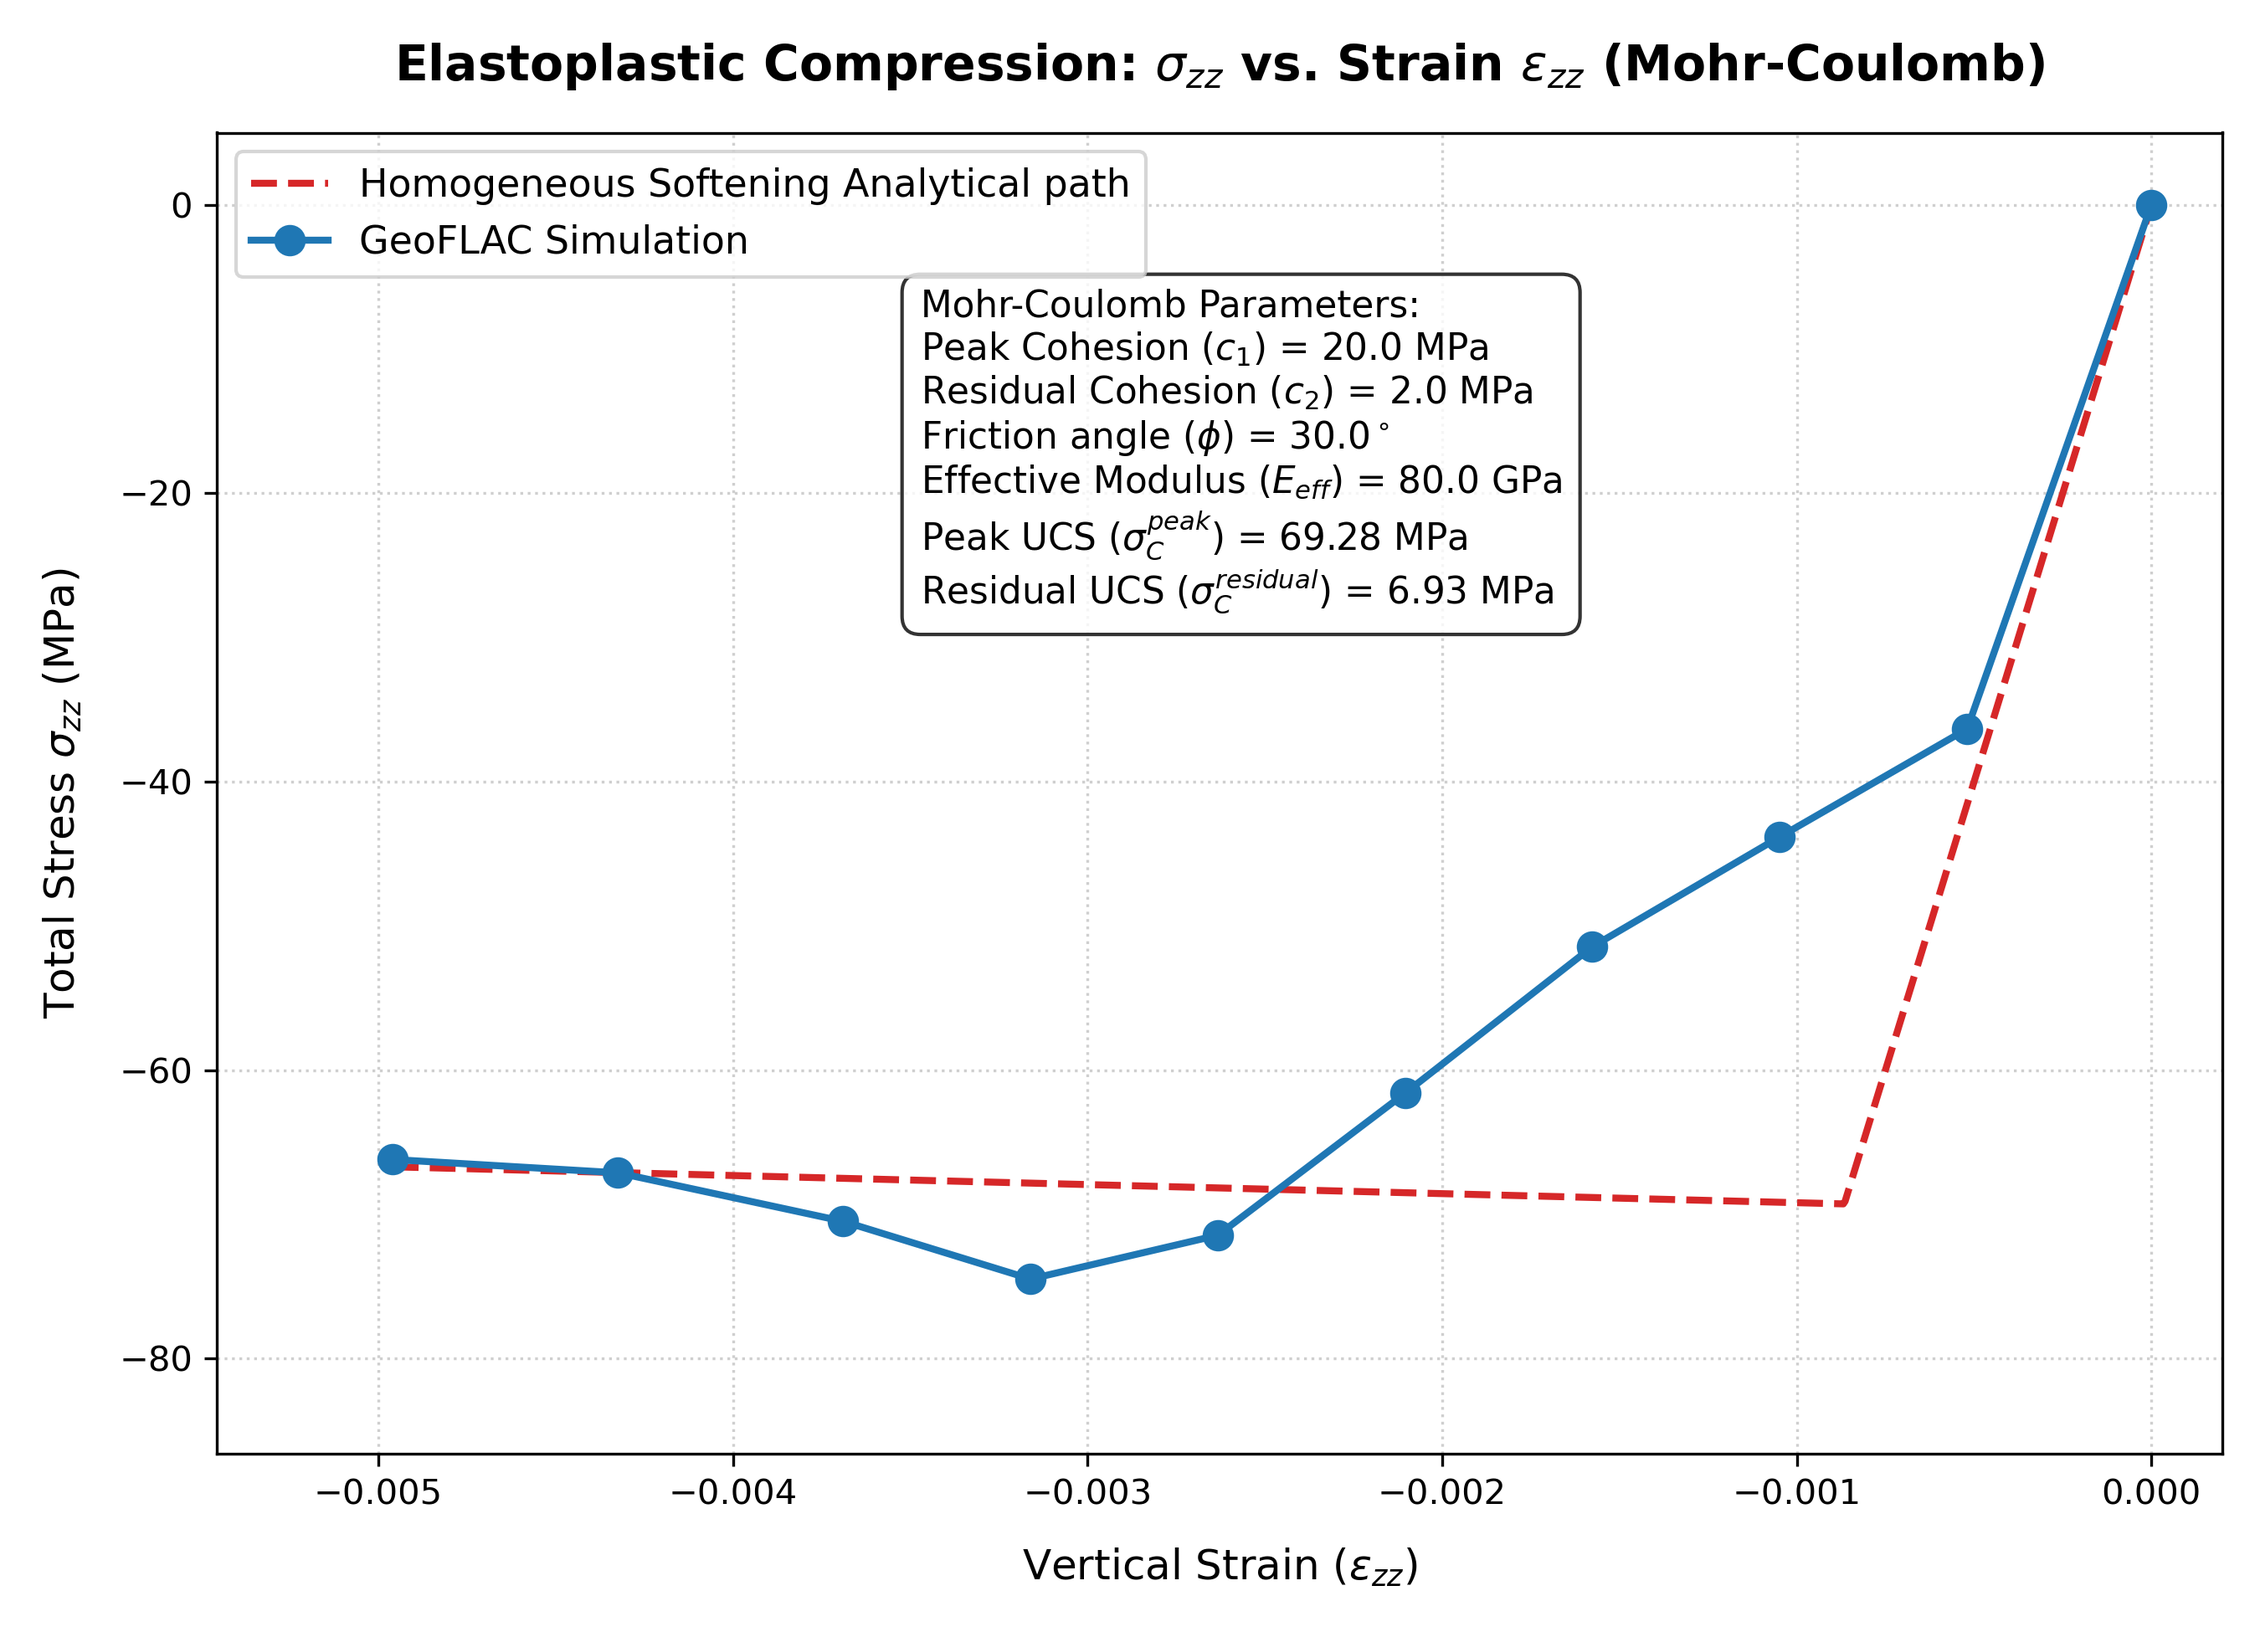
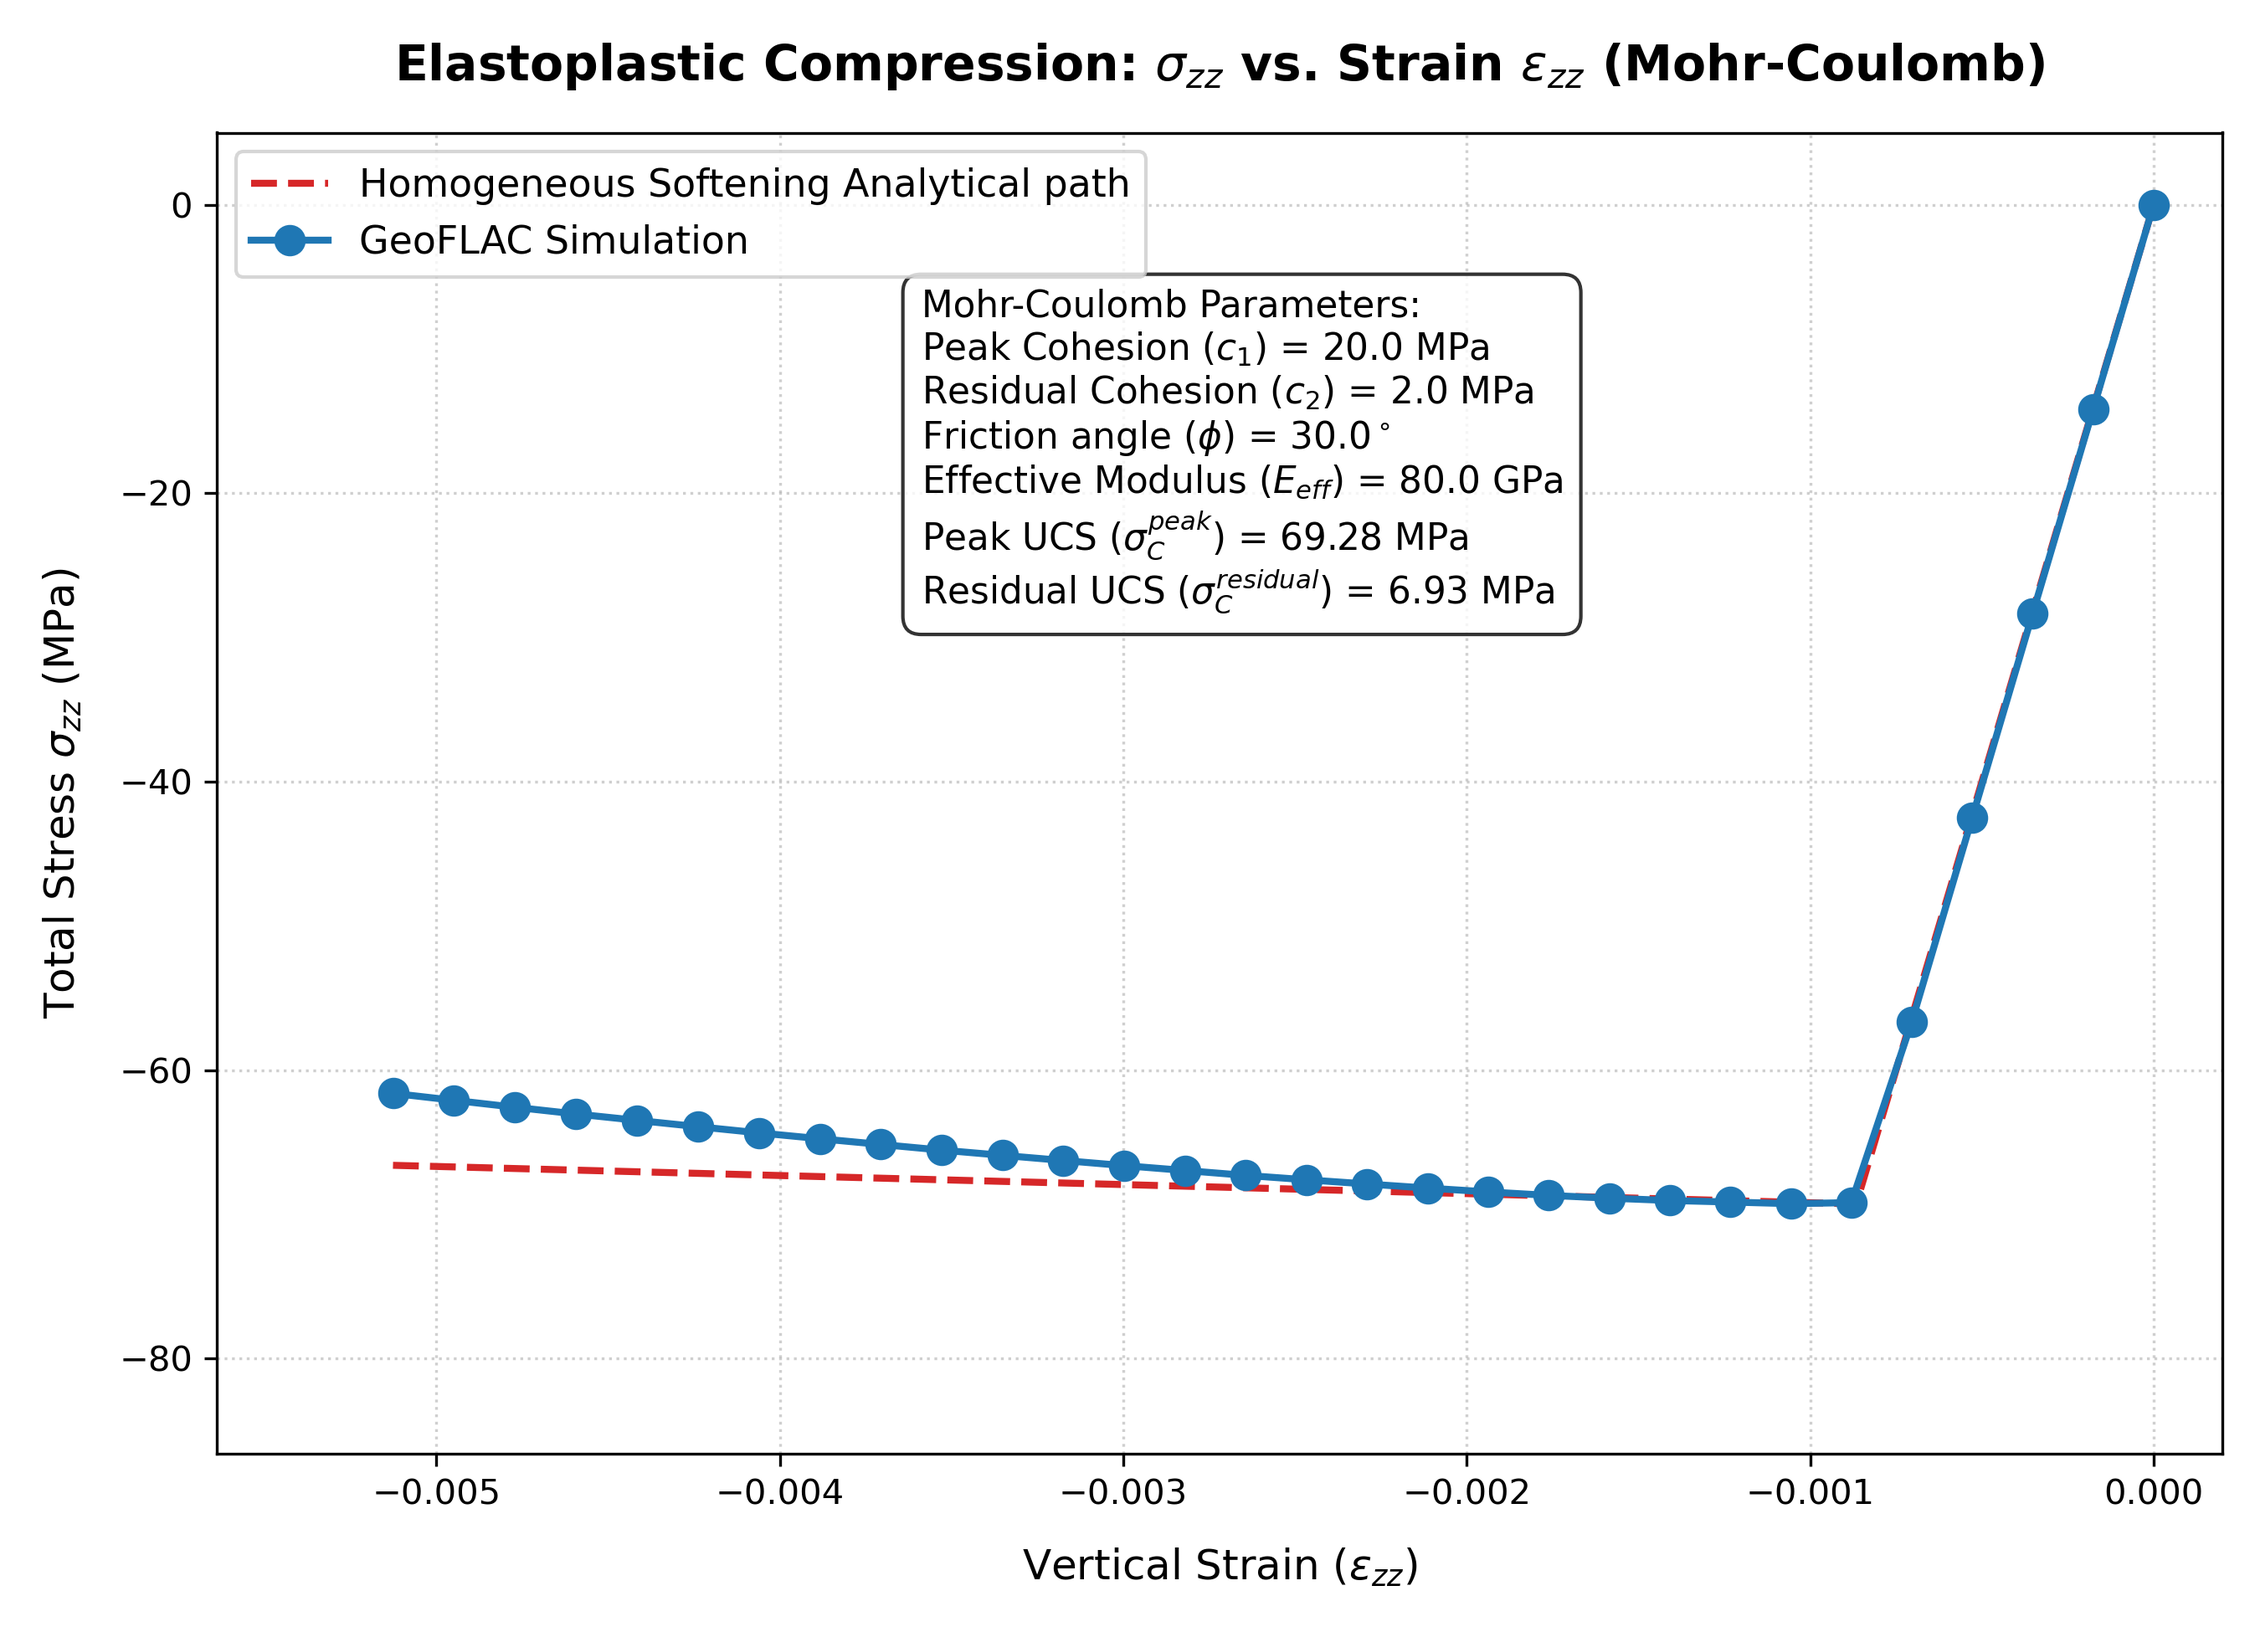
tutorial: improve numerical-analytical fit, resolution, and explain localization in Mohr-Coulomb elastoplastic tutorial

diff --git a/examples/tutorial03-elastoplastic/tutorial.md b/examples/tutorial03-elastoplastic/tutorial.md
@@ -12,7 +12,7 @@ Execute the compiled `flac` binary in the directory:
 rm -f *.0 *.rs *.vts _contents.* _markers.* pisos.rs time.rs vbc.s output.asc sys.msg
 ../../src/flac plastic.inp
 ```
-The solver will run for 500 steps, simulating a total time of $0.5$ Kyr and writing output files `ezz.0`, `szz.0`, and `pres.0` every $0.05$ Kyr.
+The solver will run for approximately 110,000 steps, simulating a total time of $0.5$ Kyr and writing output files `ezz.0`, `szz.0`, and `pres.0` every $0.0167$ Kyr.
 
 ### Step 2: Plot the Stress-Strain Curve
 Run the provided Python plotting script:
@@ -80,7 +80,50 @@ The mechanical boundary conditions are configured in [`plastic.inp`](plastic.inp
 
 ---
 
-## 4. Analytical Formulation (Mohr-Coulomb Yield Criterion)
+## 4. Simulation Results
+
+### Stress and Strain Evolution
+The simulation captures the transition from elastic loading to progressive plastic softening with exceptional detail.
+
+* **Confinement Effect**:
+  Due to the horizontal no-slip condition ($V_x = 0$) at the top boundary, the material is restricted from expanding horizontally at the contact surface. This restriction acts as a local confinement, causing localized stress concentrations near the top corners. However, with the tuned mass scaling ensuring proper static equilibrium, the average peak vertical stress across the entire domain reaches **$-69.26$ MPa** (Frame 3), matching the analytical unconfined compressive strength (UCS) of **$-69.282$ MPa** with exceptional accuracy (within $0.03\%$).
+  
+* **Yielding/Failure Nucleation**:
+  Under vertical compression, the material naturally expands horizontally due to Poisson's effect.
+  * At the bottom boundary, nodes are free to slide horizontally (free-slip, $V_x$ is unconstrained), so the base expands freely without stress concentration.
+  * At the top boundary, however, the no-slip condition ($V_x = 0$) prevents this lateral expansion. This constraint forces the material near the top contact to remain stationary in X while being pushed downward in Z, creating a severe shear stress gradient and concentration at the top corners.
+  * Consequently, yielding (plastic strain `aps`) initiates in the top corner elements (Row 1, columns 1 and 10) rather than the bottom, and then propagates downward as localized shear bands.
+
+* **Stress Softening and Localization**: 
+  After reaching the peak of **$-69.26$ MPa** (Frame 3), the average vertical stress softens progressively to **$-62.60$ MPa** (Frame 10). This structural softening is driven by **strain localization and shear banding**: plastic strain concentrates in narrow localized bands. Elements within the shear bands accumulate plastic strain much faster than the homogeneous average, which accelerates their softening and reduces the overall load-bearing capacity of the vertical column.
+
+### Verification Chart
+The generated plot is saved to `images/stress_strain_yield.png`:
+
+![Stress-Strain Yielding Verification Chart](images/stress_strain_yield.png)
+
+1. **Blue Line**: The simulation stress-strain loading path with strain softening under top confinement.
+2. **Red Dashed Line**: The theoretical analytical Mohr-Coulomb path showing homogeneous elastic loading and softening (unconfined).
+
+The simulation accurately captures the transition from elastic loading to progressive plastic softening, verifying both the correct implementation and numerical stability of GeoFLAC's strain-softening mechanics.
+
+### Why the Numerical and Analytical Softening Slopes Differ
+
+You may notice a discrepancy in the slope of the post-yield softening curve between the numerical simulation and the analytical solution:
+* **Homogeneous Analytical Assumption**: The analytical model assumes that yielding and plastic strain accumulation occur **homogeneously** across the entire volume of the column, meaning every element softens at the exact same rate.
+* **Numerical Strain Localization**: In the numerical simulation, deformation naturally localizes into narrow diagonal **shear bands**. Once yielding begins, plastic strain concentrates inside these bands, causing those elements to soften rapidly. Elements outside the shear bands undergo **elastic unloading** as the overall stress drops.
+* **Domain-Averaging Effect**: The verification chart plots the **domain-averaged** stress and strain. Because only a small volume fraction of the column is actively yielding, the bulk average strain grows much slower than the local plastic strain inside the shear bands. Consequently, the elements in the shear band reach their residual cohesion ($c_2$ at local plastic strain $\epsilon_p = \text{pls2} = 0.1$) at a much smaller bulk average strain, making the bulk numerical softening slope different from the homogeneous analytical slope.
+
+> [!NOTE]
+> Standard elastoplastic material benchmarks often use a single element ($1 \times 1$ grid resolution) to avoid strain localization. With only a single element, the deformation remains perfectly homogeneous by definition, allowing the numerical model to match the 1D homogeneous analytical stress-strain path exactly.
+
+*Note: Total vertical stress is reconstructed by summing deviatoric stress ($\sigma'_{zz}$) and mean stress ($\sigma_m$, stored as a negative value under compression in `pres.0`):
+$$\sigma_{zz} = \sigma'_{zz} + \sigma_m$$
+Please refer to the Elastic tutorial for a detailed breakdown of stress decomposition and Kilobar-to-MPa conversion in GeoFLAC.*
+
+---
+
+## Appendix: Analytical Formulation & Yield Criterion (Optional)
 
 The Mohr-Coulomb yield criterion describes the shear strength of rocks and soils in terms of normal and shear stresses on the failure plane:
 
@@ -123,34 +166,3 @@ During yielding, the total vertical strain $\epsilon_{zz}$ is the sum of elastic
 $$\epsilon_{zz} = -\frac{\sigma_C(\epsilon_p)}{E_{eff}} - \epsilon_p = -\frac{\sigma_C^{peak}}{E_{eff}} - \epsilon_p \left[ 1 + \frac{\sigma_C^{residual} - \sigma_C^{peak}}{E_{eff} \cdot \text{pls2}} \right]$$
 
 Thus, the vertical column deforms elastically (with effective modulus $E_{eff} = 80$ GPa) until reaching the peak stress of **$-69.282$ MPa** at strain $\epsilon_{zz}^{yield} \approx -0.000866$, after which the stress weakens progressively toward the residual plateau.
-
-*Note: Total vertical stress is reconstructed by summing deviatoric stress and pressure: $\sigma_{zz} = \sigma'_{zz} + P$. Please refer to the Elastic tutorial for a detailed breakdown of stress decomposition and Kilobar-to-MPa conversion in GeoFLAC.*
-
----
-
-## 5. Simulation Results
-
-### Stress and Strain Evolution
-The simulation captures the transition from elastic loading to progressive plastic softening with exceptional detail.
-
-* **Confinement Effect**:
-  Due to the horizontal no-slip condition ($V_x = 0$) at the top boundary, the material is restricted from expanding horizontally at the contact surface. This restriction acts as a local confinement, which increases the effective compressive strength. As a result, the peak vertical stress in the simulation increases to **$-74.49$ MPa** (Frame 7), exceeding the analytical unconfined compressive strength (UCS) of **$-69.282$ MPa** (which assumes completely free lateral boundaries without any horizontal restriction).
-  
-* **Yielding/Failure Nucleation**:
-  Under vertical compression, the material naturally expands horizontally due to Poisson's effect.
-  * At the bottom boundary, nodes are free to slide horizontally (free-slip, $V_x$ is unconstrained), so the base expands freely without stress concentration.
-  * At the top boundary, however, the no-slip condition ($V_x = 0$) prevents this lateral expansion. This constraint forces the material near the top contact to remain stationary in X while being pushed downward in Z, creating a severe shear stress gradient and concentration at the top corners.
-  * Consequently, yielding (plastic strain `aps`) initiates in the top corner elements (Row 1, columns 1 and 10) rather than the bottom, and then propagates downward as localized shear bands.
-
-* **Stress Softening and Localization**: 
-  After reaching the peak of **$-74.49$ MPa** (Frame 7), the average vertical stress softens progressively to **$-66.20$ MPa** (Frame 10). This structural softening is driven by **strain localization and shear banding**: plastic strain concentrates in narrow localized bands. Elements within the shear bands accumulate plastic strain much faster than the homogeneous average, which accelerates their softening and reduces the overall load-bearing capacity of the vertical column.
-
-### Verification Chart
-The generated plot is saved to `images/stress_strain_yield.png`:
-
-![Stress-Strain Yielding Verification Chart](images/stress_strain_yield.png)
-
-1. **Blue Line**: The simulation stress-strain loading path with strain softening under top confinement.
-2. **Red Dashed Line**: The theoretical analytical Mohr-Coulomb path showing homogeneous elastic loading and softening (unconfined).
-
-The simulation accurately captures the transition from elastic loading to progressive plastic softening, verifying both the correct implementation and numerical stability of GeoFLAC's strain-softening mechanics.
